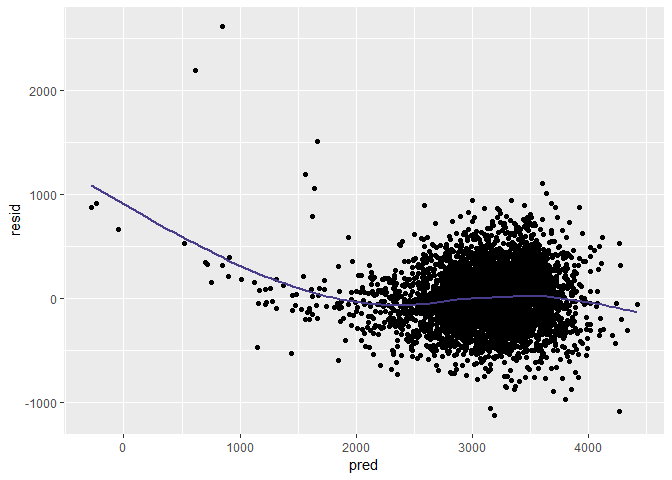
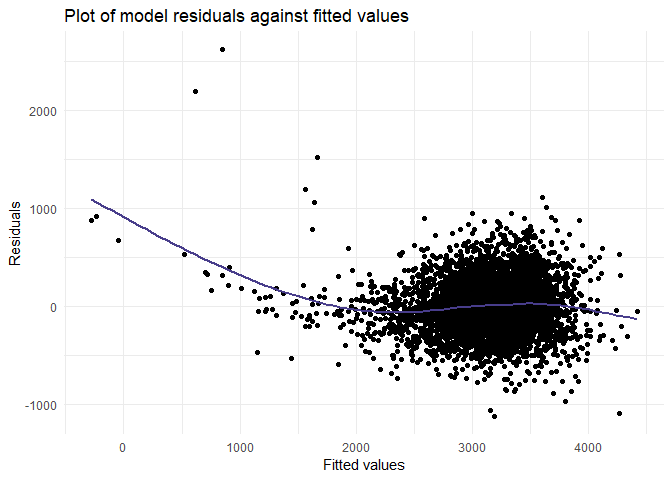
q2 final edits

diff --git a/p8105_hw6_smi2112.md b/p8105_hw6_smi2112.md
@@ -215,14 +215,16 @@ The proposed regression model for the factors that underly birthweight is based 
 #### Plotting model residuals against fitted values:
 
 ``` r
-hyp_mod <- lm(birthweight ~ length + head_circ + gest_age + sex + malform, data = bw_df)
+hyp_model <- lm(birthweight ~ length + head_circ + gest_age + sex + malform, data = bw_df)
 
 bw_df %>% 
-  add_predictions(hyp_mod) %>% 
-  add_residuals(hyp_mod) %>% 
+  add_predictions(hyp_model) %>% 
+  add_residuals(hyp_model) %>% 
   ggplot(aes(x = pred, y = resid)) +
     geom_point() +
-    geom_smooth(color = "darkslateblue", se = FALSE)
+    geom_smooth(color = "darkslateblue", se = FALSE) +
+    labs(x = "Fitted values", y = "Residuals", title = "Plot of model residuals against fitted values") +
+    theme_minimal()
 ```
 
     ## `geom_smooth()` using method = 'gam' and formula 'y ~ s(x, bs = "cs")'
@@ -235,23 +237,24 @@ Comparing to other models:
 bw_df_cross <- crossv_mc(bw_df, 100)
 
 bw_df_cross <- bw_df_cross %>% 
-  mutate(hyp_mod = map(train, ~lm(birthweight ~ length + head_circ + gest_age + sex + malform, data = .x)),
-         comp_mod1 = map(train, ~lm(birthweight ~ length + gest_age, data = .x)),
-         comp_mod2 = map(train, ~lm(birthweight ~ length + head_circ + sex + length*head_circ + head_circ*sex + length*sex, data = .x))) %>% 
-  mutate(rmse_hyp_mod = map2_dbl(hyp_mod, test, ~rmse(model = .x, data = .y)),
-         rmse_comp_mod1 = map2_dbl(comp_mod1, test, ~rmse(model = .x, data = .y)),
-         rmse_comp_mod2 = map2_dbl(comp_mod2, test, ~rmse(model = .x, data = .y)))
+  mutate(hyp = map(train, ~lm(birthweight ~ length + head_circ + gest_age + sex + malform, data = .x)),
+         comp1 = map(train, ~lm(birthweight ~ length + gest_age, data = .x)),
+         comp2 = map(train, ~lm(birthweight ~ length + head_circ + sex + length*head_circ + head_circ*sex + length*sex, data = .x))) %>% 
+  mutate(rmse_hyp = map2_dbl(hyp, test, ~rmse(model = .x, data = .y)),
+         rmse_comp1 = map2_dbl(comp1, test, ~rmse(model = .x, data = .y)),
+         rmse_comp2 = map2_dbl(comp2, test, ~rmse(model = .x, data = .y)))
 
 bw_df_cross %>% 
   select(starts_with("rmse")) %>% 
   gather(key = model, value = rmse) %>% 
   mutate(model = str_replace(model, "rmse_", ""),
          model = fct_inorder(model)) %>% 
-  ggplot(aes(x = model, y = rmse, fill = model)) + 
+  ggplot(aes(x = model, y = rmse)) + 
     geom_violin(alpha = 0.6) +
-    labs(x = "Model", y = "RMSE", title = "RMSE for each Model") +
-    viridis::scale_fill_viridis(option = "viridis", discrete = TRUE, name = "Model") +
+    labs(x = "Model", y = "RMSE", title = "Comparing RMSE of hypothesized model to two others") +
     theme_minimal()
 ```
 
 ![](p8105_hw6_smi2112_files/figure-markdown_github/unnamed-chunk-7-1.png)
+
+Comments: The hypothesized model (hyp) has the lowest RMSE compared to the other models (comp1 and comp2). Comparative model 1 (using only length at birth and gestational age as predictors) has the highest RMSE, making it the worst option for our data.
